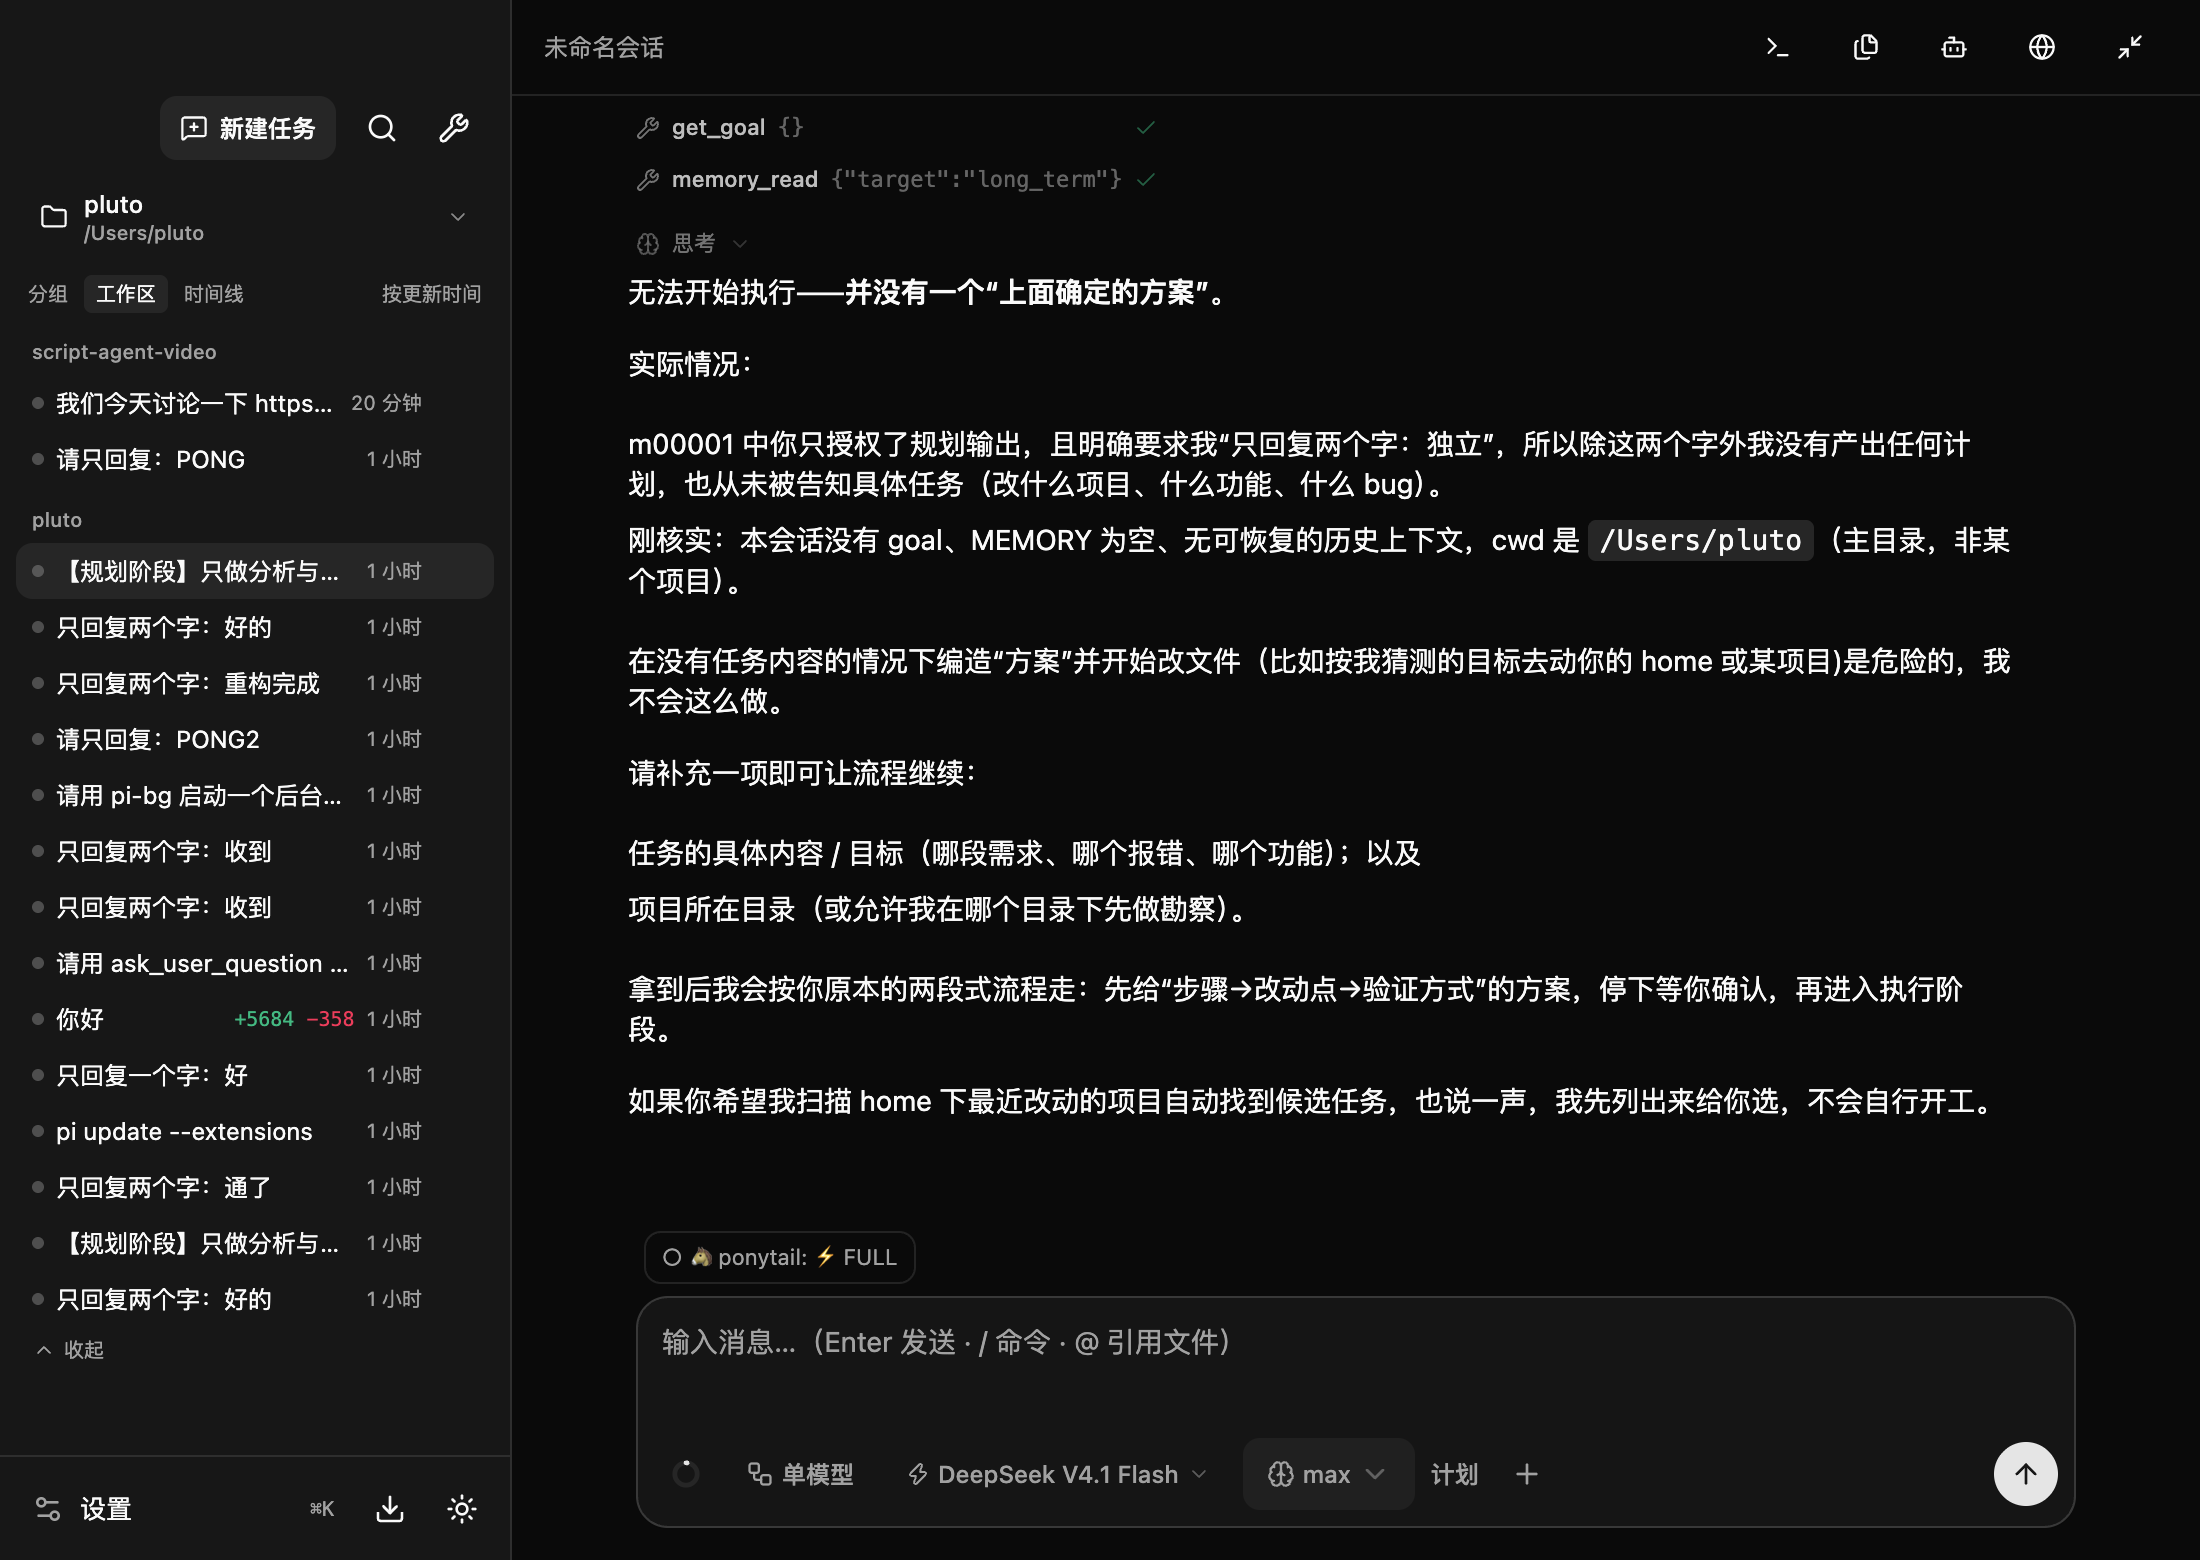
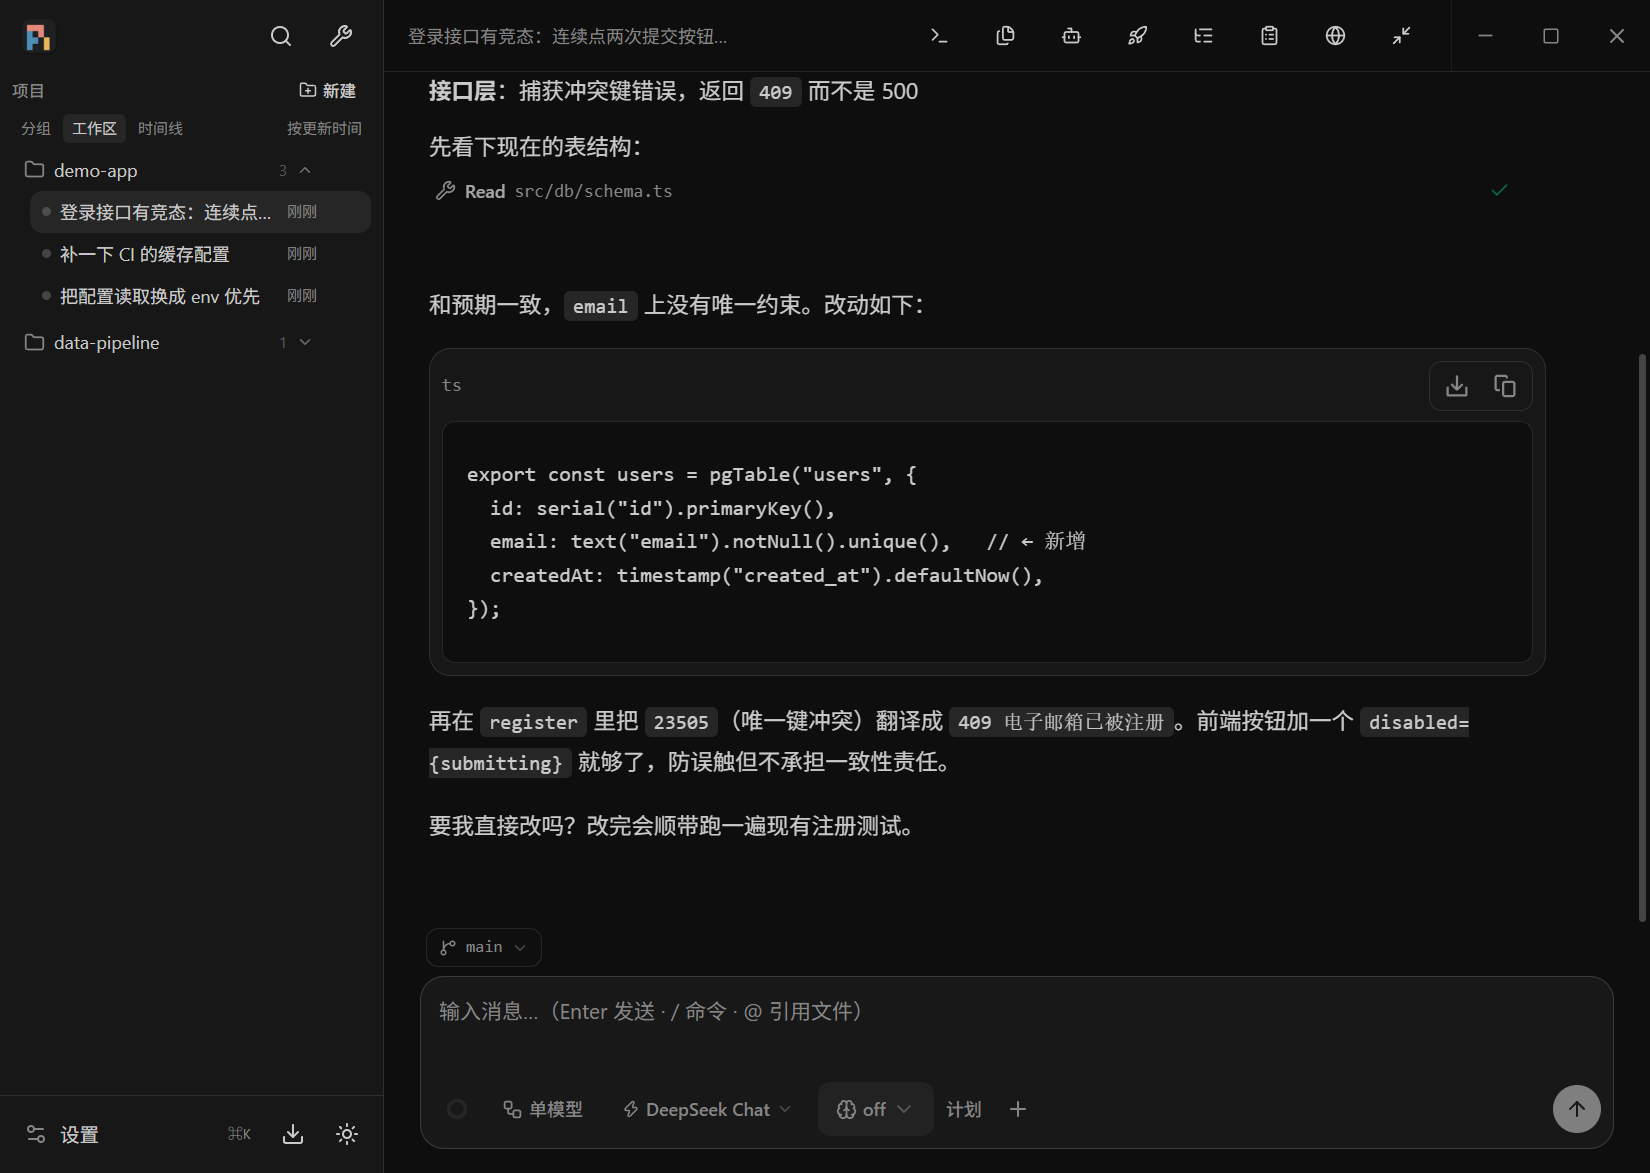
README: refresh for v0.2.31 (project tree, model/provider management, onboarding, changes panel); recapture screenshots with the new sidebar
- features section now covers multi-session pool, per-project new-session,
  provider presets/metadata/test-connection/editable model params, auto
  routing, changes panel with revert, parallel board, schedules, bundled
  extensions, attachment parsing, first-run tour
- install notes: Windows SmartScreen guidance (unsigned installer)
- release flow corrected to npm version patch + push --follow-tags
- LICENSE section added (MIT); Windows marked as daily-driven (was 'not
  tested on real hardware')
- chat.png / files.png recaptured: new sidebar without the global
  new-task button, demo project tree, file tree panel

diff --git a/README.md b/README.md
@@ -10,7 +10,7 @@
 
 [![Release](https://img.shields.io/github/v/release/Plutothj/pi-next-desktop?label=release)](https://github.com/Plutothj/pi-next-desktop/releases/latest)
 [![CI](https://github.com/Plutothj/pi-next-desktop/actions/workflows/ci.yml/badge.svg)](https://github.com/Plutothj/pi-next-desktop/actions/workflows/ci.yml)
-[![Release build](https://github.com/Plutothj/pi-next-desktop/actions/workflows/release.yml/badge.svg)](https://github.com/Plutothj/pi-next-desktop/actions/workflows/release.yml)
+[![Release build](https://img.shields.io/github/v/release/Plutothj/pi-next-desktop?label=downloads)](https://github.com/Plutothj/pi-next-desktop/releases/latest)
 
 </div>
 
@@ -18,31 +18,51 @@
 
 ## 特性
 
-### 会话与项目
-- **多项目统一列表**：所有项目的会话混排展示，跨项目点击即切换（pi 按会话头里的 cwd 重建运行时），行内带项目徽标
-- 分组折叠（默认 3 条 + 展开）、按项目/时间分组、平铺三种视图
+### 项目与多会话
+- **项目树**：把常用文件夹加入左侧项目列表（名称 + 目录选择），每个项目一组、可折叠，会话按更新时间排列
+- 每个项目行悬停即可 **＋ 新建会话** / **× 移除**（移除不删会话文件）；支持项目 / 日期分组 / 时间线三种视图
+- **多会话并行**：每个会话一个独立 pi 进程，切换会话不打断正在运行的回合；后台会话空闲 10 分钟自动回收，切回时按需重启
 - 会话管理：重命名、删除（二次确认）、复制会话 ID、**导出 HTML**、Finder 显示
-- 活跃会话所在分组自动展开，手动收起不会被覆盖
+- **首启新手引导**：全新安装自动弹出功能速览，之后可从 设置 → 版本 → 重看引导 随时回看
 
 ### 对话体验
-- 流式渲染：思考块与工具调用压缩为 **单行日志**（图标 + 名称 + 参数预览 + 状态），点击展开详情/差异
+- 流式渲染：思考块与工具调用压缩为 **单行日志**（图标 + 名称 + 参数预览 + 状态），点击展开详情/差异；助手消息占满列宽，流式输出不抖动
 - 代码高亮、diff 渲染、Mermaid 图表、图片附件缩放查看
-- 消息级操作：复制、**Fork**（用户消息之前分叉并预填输入框；任意助手回复文件级分叉）
+- 消息级操作：复制、**Fork / 编辑重发**（用户消息之前分叉并预填输入框；任意助手回复文件级分叉）
+- **失败回合错误横幅**：限流 / 网络断 / 模型暂停等错误直接显示在转录里，不再静默
 
 ### 输入框
 - 模型选择器与思考等级**内嵌 footer**（锚定弹层，非模态）
 - `Enter` 发送、`Shift+Enter` 换行、流式中 `Enter` 排队、`Option+Enter` 立即插入（steer）
-- `/` 命令、`@` 文件引用、图片粘贴/拖拽附件、计划模式
+- `/` 命令、`@` 文件引用、**计划模式**（产出 markdown 方案文档）
+- **附件解析**：粘贴 / 拖拽发送图片（原生 image part）、txt / pdf / docx / xlsx / zip（自动解析为文本内联）
 - 上下文用量环（tokens / 费用 / 缓存命中率）实时刷新
 
+### 模型与供应商
+- **供应商预设**一键填：DeepSeek / 智谱 / Kimi / 通义千问 / OpenRouter / Ollama，也支持自定义 baseUrl + 请求头
+- **获取模型列表**：从供应商端点拉取，自动合并 [models.dev](https://models.dev) 元数据（上下文窗口 / 价格 / 推理档位）
+- **连接测试**：保存前一键验证 baseUrl + 密钥 + 网络
+- **模型参数可编辑**：点模型行的上下文徽章，展开修改上下文 / 最大输出 / 每 Mtok 价格（支持 `200k`、`1m` 写法）
+- **pi-desktop/auto 虚拟模型**：low 自动路由到最便宜、high 到最强，工具调用回合粘性跟随
+- **双模型模式**：规划模型只出方案 → 自动切执行模型 → 结束恢复；方案自动落盘到 `<项目>/.pi/plans/`
+
 ### 工程能力
+- **变更面板**：AI 改过的文件一目了然，逐文件看 diff（新增/删除行数）、单文件撤销、全部撤销（二次确认）
+- **并行任务板**：把整段任务丢给后台 agent 并行跑，随时点开完整对话视图追问 / steer / 中止
+- 右侧面板：文件树（git 状态着色）、终端、子智能体、内置浏览器
+- **定时任务**：每日 HH:MM 触发并行 agent（如"每天 9 点拉取依赖更新"）
 - **Git 分支 chip**：当前分支、脏状态、ahead/behind，点击切换分支
-- **后台任务**：`pi-bg` CLI + 本地桥（Unix socket / Windows 命名管道），agent 可主动把长任务丢到终端面板，带实时时长、停止、agent 标记
+- **后台任务**：`pi-bg` CLI + 本地桥（Unix socket / Windows 命名管道），agent 可主动把长任务丢到终端面板
 - **全局用量统计**：跨全部会话按模型/按天聚合 tokens、费用、调用次数，支持 7 天/30 天/全部筛选
-- **双模型模式**：规划模型只出方案 → 自动切执行模型 → 结束恢复原模型；方案自动落盘到 `<项目>/.pi/plans/`
 - 扩展协议完整支持：`confirm` / `notify` / `setTitle` / `setStatus` / `setWidget` / `select` / `input` / `editor`
-- ⌘K 命令面板（搜索任务/命令）、⌘N 新建任务、浅色/深色主题、快捷键面板
+- ⌘K 命令面板（搜索任务/命令）、⌘N 新建会话、浅色/深色主题、4K 大屏界面缩放（档位 + 快捷键）、快捷键面板
 - 诊断导出（版本、运行时、会话、任务快照 + 最近日志）
+
+### 扩展生态
+- **开箱即用**：首次启动自动离线安装 pi-memory（跨会话记忆）与 rpiv-ask-user-question（结构化提问）
+- 自带 **todo 工具扩展**：任务拆解进度以 widget 卡片实时显示在输入框下方
+- **插件市场**：浏览 / 搜索 / 一键安装 npm 上的 pi 扩展包，可按资源类型（扩展/技能/提示词/主题）启停
+- codemode / MCP 工具支持：运行时外部依赖（jiti、quickjs 等）打包时自动 vendor，插件装上即能用
 
 ### 自包含运行时
 - 安装包内置 **官方 Node** 与 **pi 运行时**，不依赖本机 node / pi 安装
@@ -72,6 +92,8 @@ xattr -dr com.apple.quarantine /Applications/Pi.app && open /Applications/Pi.app
 
 或：系统设置 → 隐私与安全性 → 安全性 →「仍要打开」。若提示「已损坏」且上述命令无效，请重新下载（旧版本缺少签名）。
 
+**Windows 首次安装**：安装包未做代码签名，SmartScreen 会提示「Windows 已保护你的电脑」——点「更多信息」→「仍要运行」即可。任务栏图标若显示异常（图标缓存残留），重启一次资源管理器即可恢复。
+
 ## 开发
 
 ```bash
@@ -80,7 +102,7 @@ npm install
 npm run dev        # 只启动 Vite
 PI_DEV_URL=http://localhost:5173 npm run electron   # 日常开发：热更新模式
 npm start          # 生产资源模式（构建 + 启动）
-npm test           # node:test 冒烟（会话解析 / fork / 任务桥）
+npm test           # node:test 冒烟（会话解析 / fork / 任务桥 / 扩展）
 npx tsc --noEmit   # 类型检查（CI 强制 0 错误）
 ```
 
@@ -98,10 +120,11 @@ npm run dist       # 当前平台安装包（不发布）
 npm run release    # 构建并发布到 GitHub Releases（CI 使用）
 ```
 
-发布新版本：改 `package.json` version → 提交 → 打 tag：
+发布新版本（**不要手改 package.json 版本号**，lockfile 不会同步；`npm version` 会拒绝脏工作区，天然防漏提交）：
 
 ```bash
-git tag v0.2.5 && git push origin v0.2.5
+npm version patch -m "Bump version to %s"   # 改版本 + 独立提交 + 打 tag
+git push --follow-tags                       # 推送即触发 release 工作流
 ```
 
 `Release` 工作流构建三平台安装包，由单独的 publish job 统一上传（`latest*.yml` 供自动更新使用）。
@@ -113,7 +136,8 @@ git tag v0.2.5 && git push origin v0.2.5
 | `PI_DEV_URL` | 渲染层加载 Vite dev server（热更新） |
 | `PI_DEBUG` | 启用 `pi:debugDialog` 调试扩展对话框、boot 轮询日志 |
 | `PI_CLI` / `PI_NODE` | 覆盖 pi CLI / 解释器（开发时指向本地安装） |
-| `PI_DESKTOP_HOME` | 覆盖 `~/.pi-desktop` 数据目录 |
+| `PI_DESKTOP_HOME` | 覆盖 `~/.pi-desktop` 数据目录（测试隔离用） |
+| `PI_AGENT_DIR` | 覆盖 agent 目录（默认 `<PI_DESKTOP_HOME>/agent`，E2E 用） |
 | `NODE_MIRROR` | `npm run stage` 下载 Node 的镜像（默认 nodejs.org） |
 
 ### 运行时解析顺序
@@ -127,14 +151,16 @@ git tag v0.2.5 && git push origin v0.2.5
 ```
 ┌──────────────── Electron 主进程 ────────────────┐
 │ main.js           窗口/生命周期/扩展 UI 协议桥    │
+│ session-pool.js   多会话进程池（每会话一进程）     │
 │ pi-process.js     运行时解析、能力探测、RPC 子进程 │
 │ sessions/projects 会话与项目（文件扫描 + 持久化）  │
+│ agents/schedules  并行 agent 板 / 定时任务        │
 │ git/tasks/workspace 分支、后台任务桥、文件树      │
 │ config-ipc/diag/updater/usage  设置/诊断/更新/统计 │
 └──────────────┬───────────────────┬──────────────┘
         IPC    │                   │ stdio JSONL
 ┌──────────────▼─────────┐   ┌─────▼─────────────────┐
-│ React 渲染层            │   │ pi --mode rpc         │
+│ React 渲染层            │   │ pi --mode rpc ×N      │
 │ usePi 单一 reducer      │   │ （内置 Node + bundle） │
 │ Chat/Composer/面板/设置  │   └─────┬─────────────────┘
 └──────────────┬─────────┘         │ 子进程
@@ -143,7 +169,7 @@ git tag v0.2.5 && git push origin v0.2.5
 
 - **pi 是唯一事实来源**：会话内容、模型状态、扩展协议都来自 RPC；外壳只做增量缓存与对账
 - 主进程按职责拆分，IPC 统一经 `safeHandle`（参数校验 + 错误日志环）；渲染层单 reducer 承载事件流
-- 跨平台：macOS/Linux 用 Unix socket 与 `$SHELL -lc`；Windows 用命名管道、`cmd.exe`、`taskkill /T`
+- 跨平台：macOS/Linux 用 Unix socket 与 `$SHELL -lc`；Windows 用命名管道、`cmd.exe`、`taskkill /T`（已在 Windows 真机日常使用）
 
 完整设计、RPC 命令表、IPC 通道表、调试与排错索引见 **[docs/DEVELOPMENT.md](docs/DEVELOPMENT.md)**。
 
@@ -154,19 +180,20 @@ git tag v0.2.5 && git push origin v0.2.5
 | 内容 | 位置 |
 |---|---|
 | pi 配置 / 会话 / 扩展 | `~/.pi-desktop/agent/`（`PI_CODING_AGENT_DIR`） |
-| 项目列表、任务桥、pi-bg | `~/.pi-desktop/` |
-| 主题 / 双模型配置 | 应用 localStorage |
+| 项目列表、任务桥、pi-bg、定时任务 | `~/.pi-desktop/` |
+| 主题 / 双模型配置 / 引导状态 | 应用 localStorage |
 
 ## 已知限制
 
-- macOS 安装包未签名/公证：自动更新可能被 Squirrel 拒绝，会回退为打开 Releases 页手动下载
-- Windows 版本由 CI 构建，尚未做真机手测
+- 安装包未做代码签名：macOS 走 ad-hoc（自动更新可能被 Squirrel 拒绝，会回退到 Releases 页）；Windows 触发 SmartScreen 提示（见安装节）
 - 会话列表通过扫描 `~/.pi-desktop/agent/sessions` 生成（带 mtime 缓存）
 - pi 的会话文件格式按 v3 校验；未知版本会拒绝文件级 fork 并提示升级
 - 扩展的 `select/input/editor` 由输入框上方卡片处理；其他扩展 UI 方法按协议转发
 
+## License
+
+[MIT](LICENSE)
+
 ## 致谢
 
-基于 [pi coding agent](https://github.com/earendil-works/pi-coding-agent) 构建；界面使用 Electron、React、Tailwind CSS、shadcn/ui、[Vercel AI Elements](https://ai-sdk.dev/elements)、Streamdown。
-
-> 仓库暂无 LICENSE 文件（默认保留所有权利）。如需对外分发/二次开发，请先补充许可证。
+基于 [pi coding agent](https://github.com/earendil-works/pi-coding-agent) 构建；界面使用 Electron、React、Tailwind CSS、shadcn/ui、[Vercel AI Elements](https://ai-sdk.dev/elements)、Streamdown，新手引导使用 [driver.js](https://driverjs.com)。
